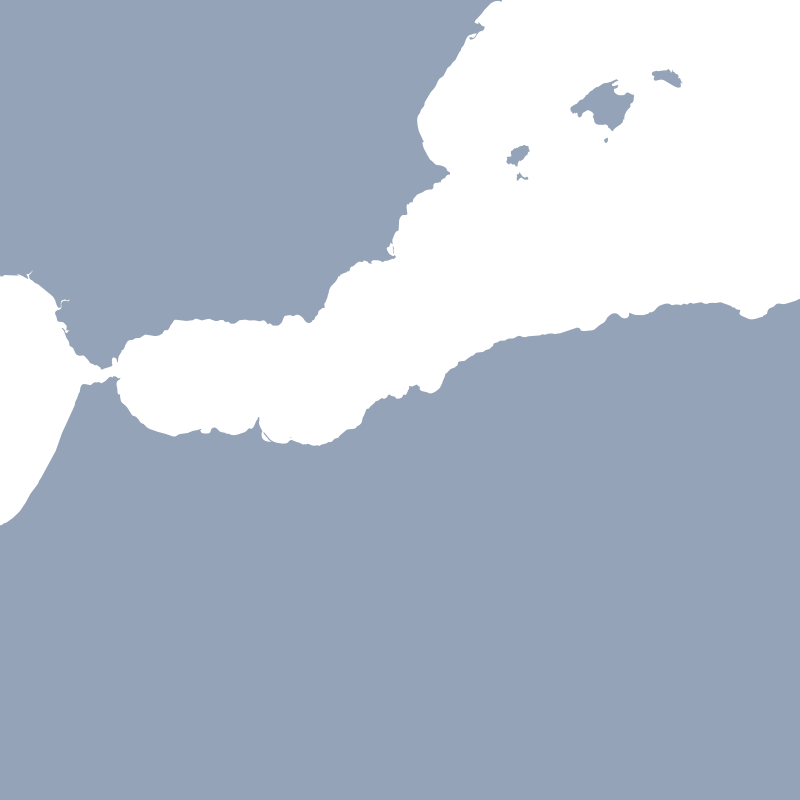
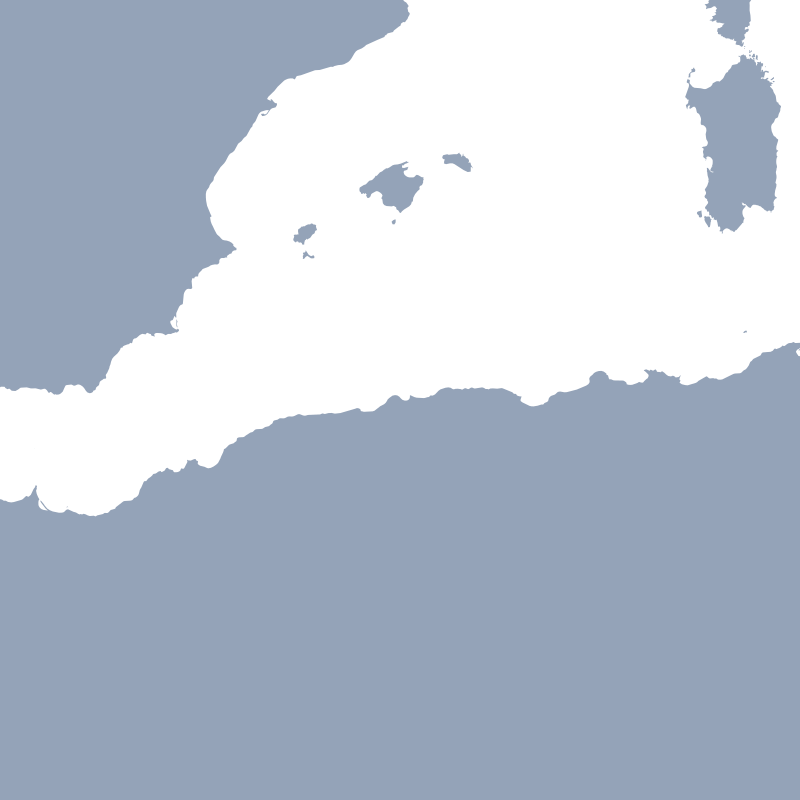
Recenter Operation Torch on the Algiers landings
Torch was centered on Oran, only 6km from Mers-el-Kébir, so a wrong
guess between the two showed ~100% proximity. The Algiers landing
area is an equally valid center and separates the pair. Regenerated
the affected image.

Claude-Session: https://claude.ai/code/session_011xCzdnbXmoiuj6kTWw8XJ3

diff --git a/src/domain/battles.ts b/src/domain/battles.ts
@@ -729,8 +729,8 @@ export const battles: Battle[] = [
   },
   {
     code: "operation-torch",
-    latitude: 35.7,
-    longitude: -0.63,
+    latitude: 36.75,
+    longitude: 3.06,
     name: "Operation Torch",
     year: 1942,
     theater: "North Africa",
